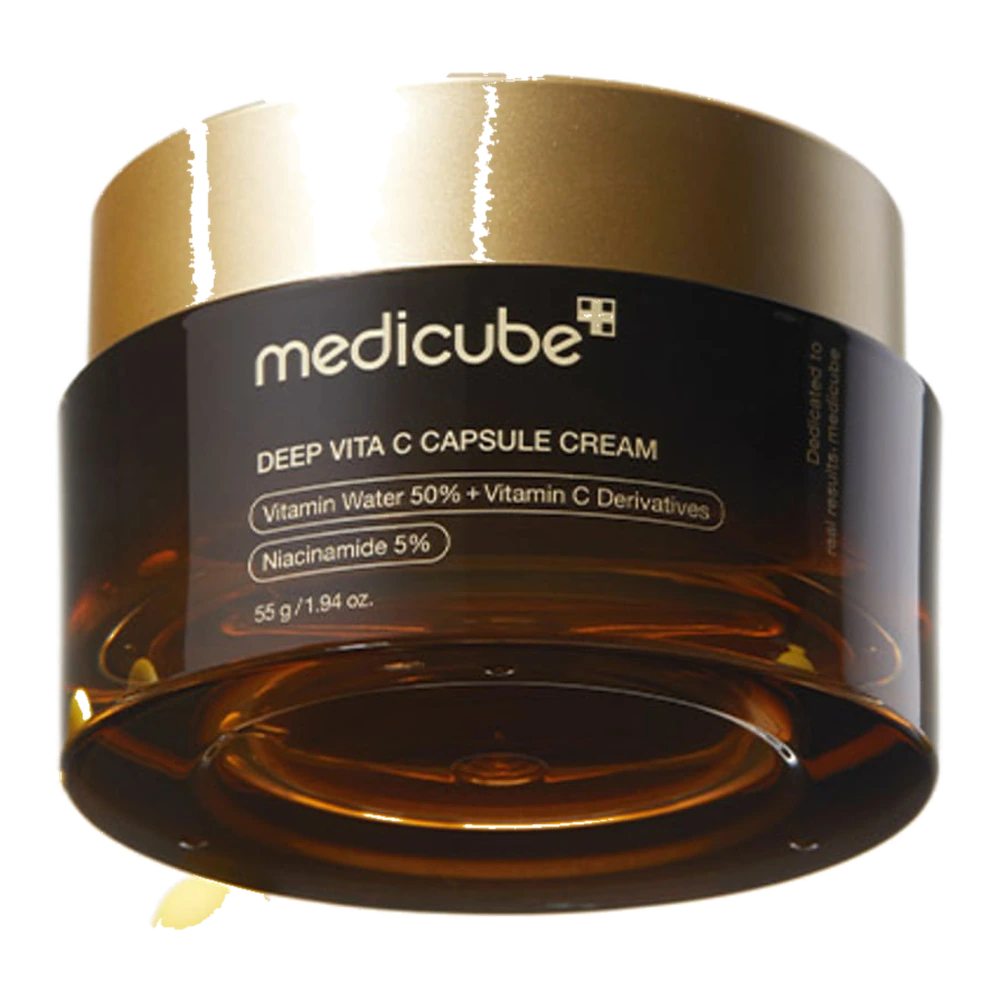
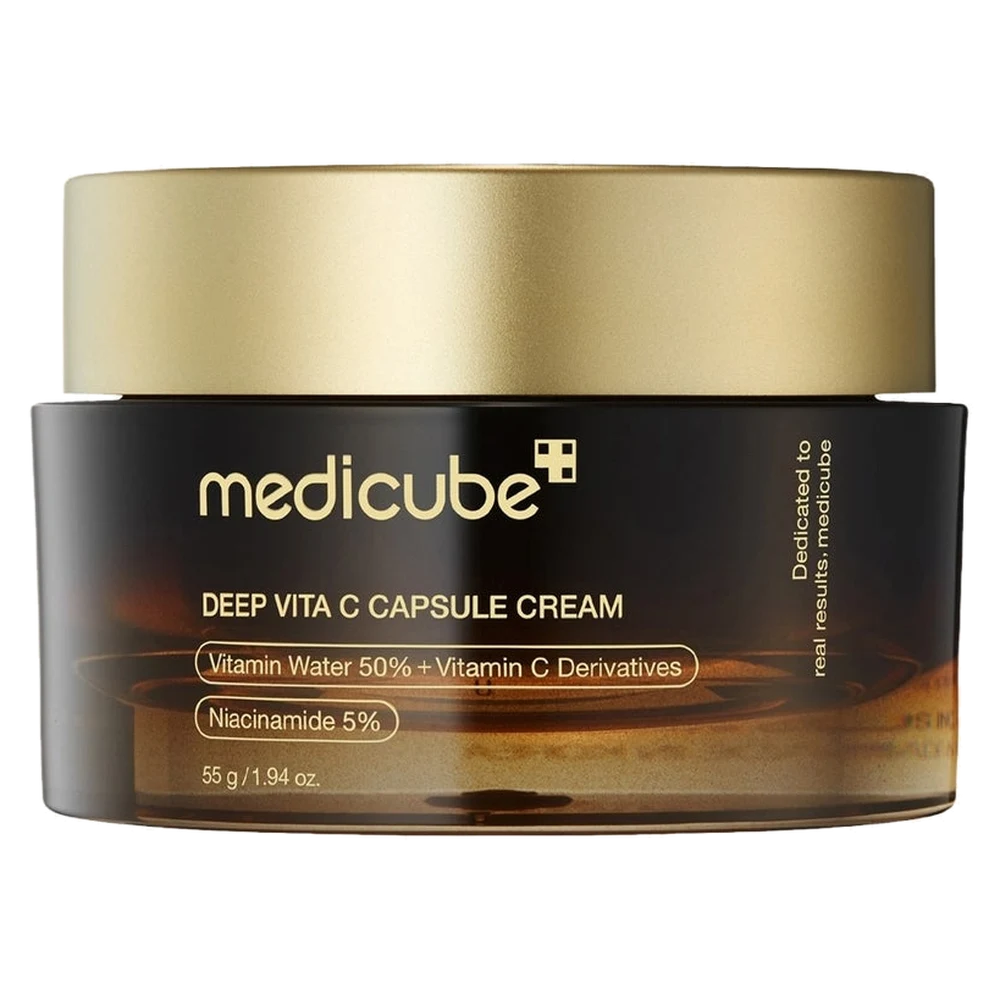
W059b: hũ Deep Vita C chụp chính diện, bỏ ảnh góc thấp
Claude-Session: https://claude.ai/code/session_01SM32Gy7XZHf11jVL44stwA

diff --git a/tasks/W059.md b/tasks/W059.md
@@ -22,3 +22,7 @@
 
 ## Còn mở
 - Ảnh hộp nguyên (box) thật: OPI chụp tại quầy 4 mã Medicube (PDRN serum, PDRN cream, Deep Vita C, Glutathione) trên nền trơn → Media tách nền → thay vào `public/trang-chu/` hoặc kho media.
+
+## Bổ sung 20/11 (Claude) — hũ Deep Vita C
+- CĐT: ảnh hũ cũ chụp góc từ dưới lên, thấy đáy và viền nắp vỡ. Thay bằng ảnh chính diện ngang tầm mắt (hũ đóng nắp, nguồn ảnh bán lẻ chính hãng lookfantastic), tách nền sạch, canvas 1000×1000.
+- medicube.us ghi Deep Vita C cũng đã đổi bao bì ("NEW LOOK, SAME FORMULA"); ảnh mới dùng là bản hiện hành. OPI xác nhận hàng tại quầy.
